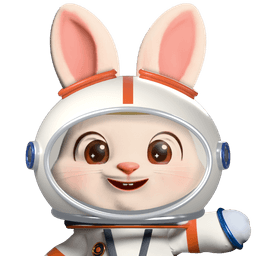
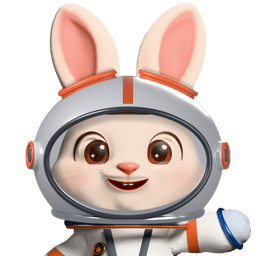
Rabi'yi Giydir: Astronot kaskı ilk kaskın renklerine çekildi
- Kabuk krem beyaz yerine ilk (Gemini) kaskındaki nötr gümüş, yarı metalik.
- Vizör çevresinde açık gümüş yerine koyu arduvaz çerçeve.
- Yan disklerde mavi halka yerine turuncu; kulak yuvaları ve tepe şeridi
  giysi şeritleriyle aynı turuncu.
- İkon yeniden kırpıldı; maskot kuralı güncellendi.

Claude-Session: https://claude.ai/code/session_01N5eM5Zhn9zt8LXE1kyh4Qh

Changed region(s): [[0.0938, 0.2812, 0.9062, 0.875]]

diff --git a/docs/kurallar/maskot-ve-ikon.md b/docs/kurallar/maskot-ve-ikon.md
@@ -159,12 +159,13 @@ Rabi proje kurallarının bir parçası — dizin ve genel kurallar: [AGENTS.md]
     2026-11-03). Denenip beğenilmeyenler: kulakları gizleyen, alnı altın güneşlikle örten kask
     (ilk sürüm) ve kaskın sağ elde sarkması. Kulak yuvası düz halka değil kısa kovan + lastik
     dudak: önden bakınca düz halka çizgi gibi okunuyordu. Tepede önden arkaya turuncu şerit,
-    yanlarda mavi halkalı diskler (bilek halkalarıyla aynı mavi), altın güneşlik yukarıda
-    (açıklığın tepesinde ince şerit). Cam yalnız Fresnel yansıması + yumuşak pencere ışığı:
-    yansıma paneli yüze denk gelince gözün yanında dikdörtgen leke bırakıyordu.
-    **Renkler giysiden ölçülür** (kullanıcı uyumsuz buldu, 2026-11-03): kabuk giysinin sıcak
-    krem beyazı (sRGB 236,230,220), turuncu 214,84,30, mavi 18,68,148; pozlama −0,75. Saf
-    beyaz kabuk ve parlak turuncu giysinin yanında patlamış, ayrı parça gibi duruyordu.
+    yanlarda turuncu halkalı açık gri diskler, altın güneşlik yukarıda (açıklığın tepesinde
+    ince şerit). Cam yalnız Fresnel yansıması + yumuşak pencere ışığı: yansıma paneli yüze
+    denk gelince gözün yanında dikdörtgen leke bırakıyordu.
+    **Renkler ilk (Gemini) kaskınınki** (kullanıcı istedi, 2026-11-04): nötr gümüş kabuk
+    (sRGB 208,208,212, yarı metalik), vizör çevresinde koyu arduvaz çerçeve (62,66,76),
+    turuncu 214,84,30 (giysi şeritleri); pozlama −0,6. Denenip uyumsuz bulunanlar: saf beyaz
+    kabuk + mavi diskler (patlamış), giysinin krem beyazı + açık gümüş çerçeve.
     - Kask kasksız render'ın üstüne **bindirilir** (`astronot_kask.py` Blender'da kaskı
       kurup katmanları çizer, `astronot_birlestir.py` birleştirir): arka kabuk → Rabi → ön
       kabuk → yuvanın arka yayı → kulağın dışarıdaki kısmı → yuvanın ön yayı. Ön/arka
